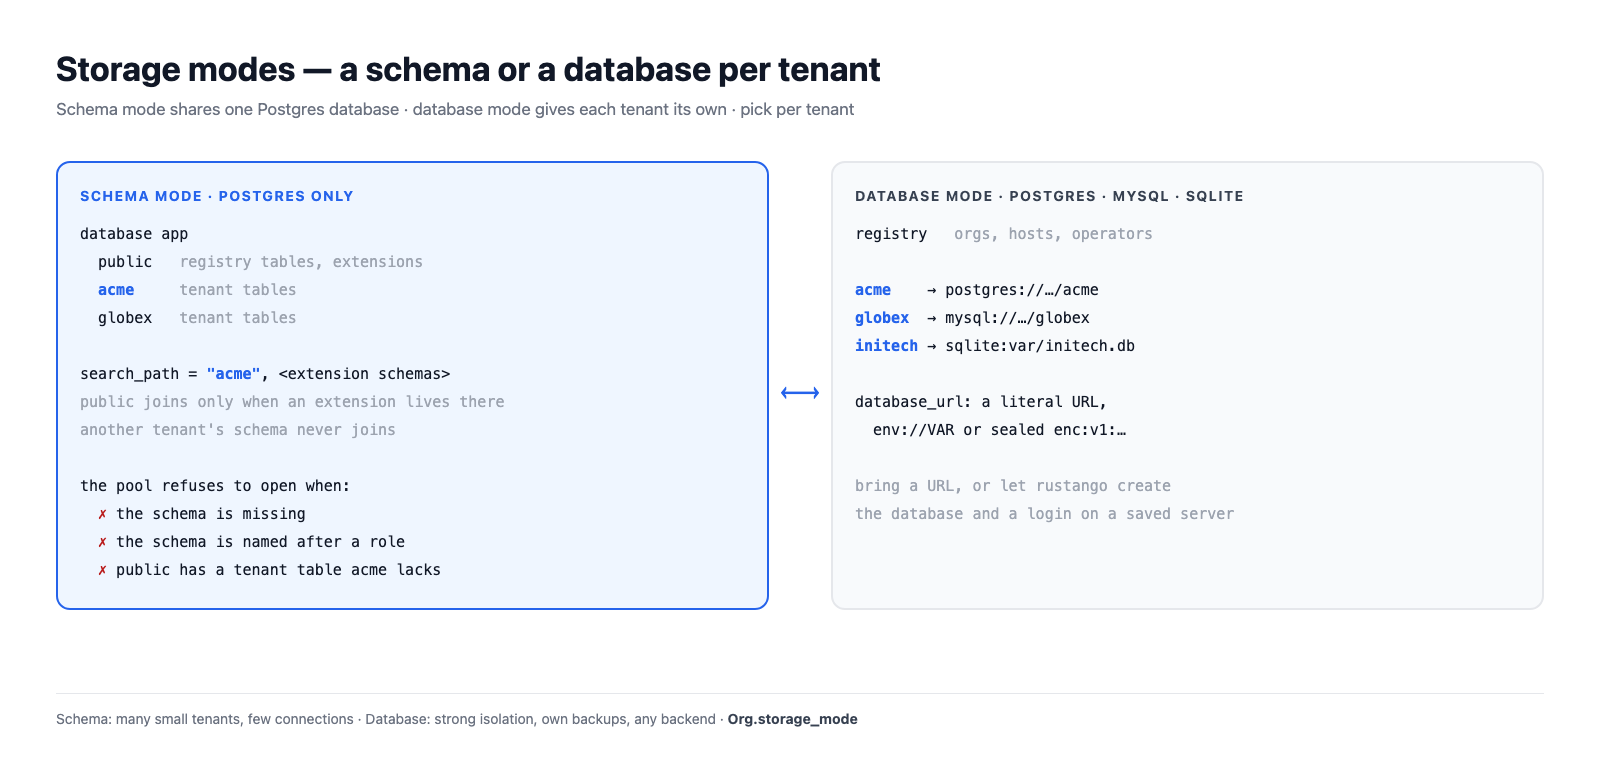
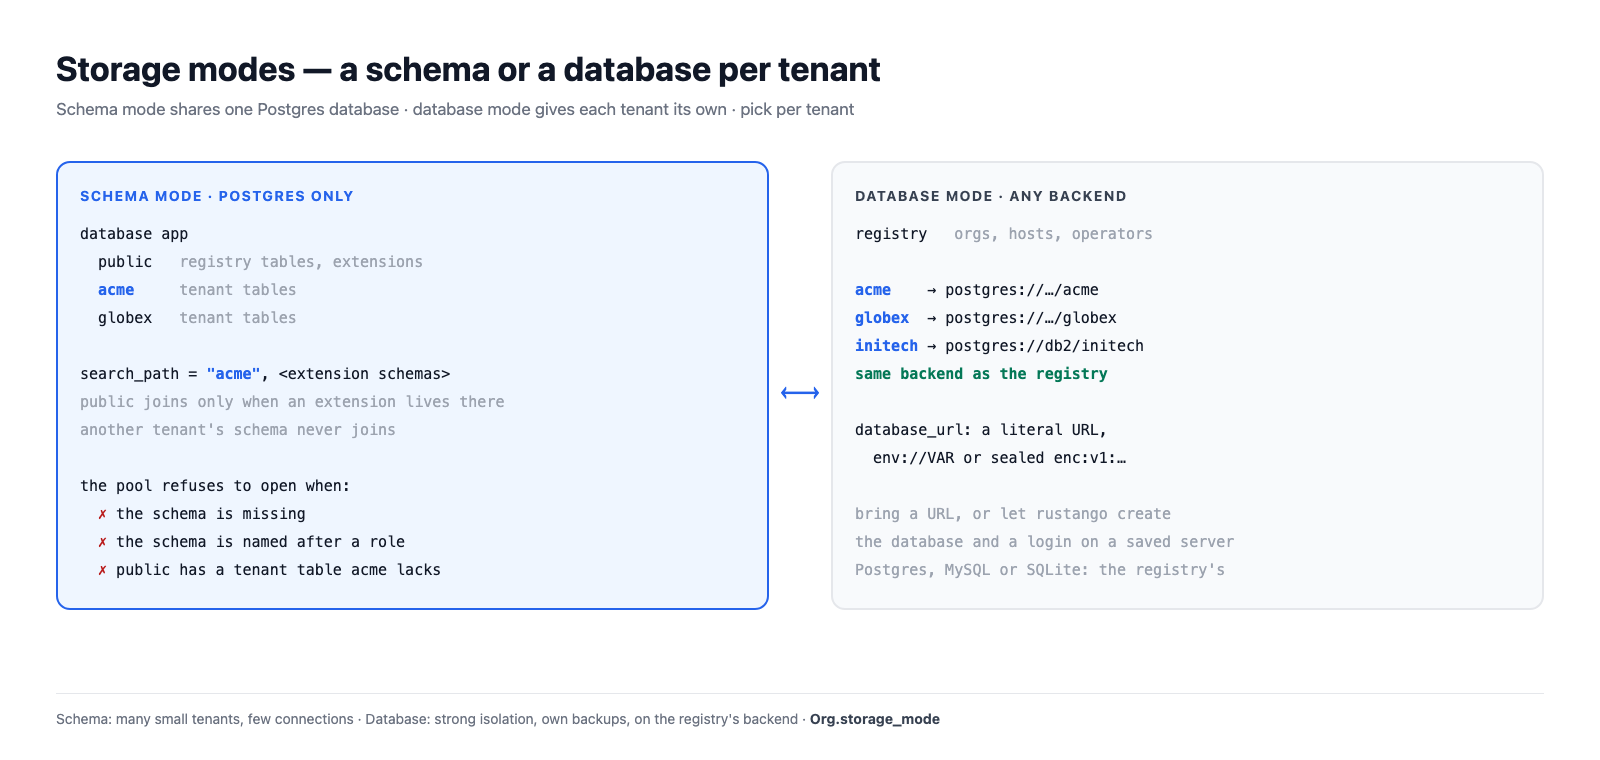
docs: tenancy guide review fixes
No port routing in the built-in server, same-backend tenants, two-poll
settle, database-mode tagging only, apex rules, extension warning.

Changed region(s): [[0.5312, 0.3934, 0.7812, 0.7566], [0.4062, 0.9382, 0.5938, 0.9684], [0.625, 0.2421, 0.7812, 0.2724]]

diff --git a/crates/rustango/src/tenancy/pools.rs b/crates/rustango/src/tenancy/pools.rs
@@ -1844,8 +1844,8 @@ impl UncheckedPath {
             target: "rustango::tenancy::pools",
             schema = %self.path.schemas[0],
             extensions = %self.skipped.join(", "),
-            "extensions in a tenant's schema, or one with objects of its own, stay off the \
-             tenant's search_path; \
+            "extensions in another tenant's schema, or in a schema with objects of its own, \
+             stay off this tenant's search_path; \
              move them with `ALTER EXTENSION <name> SET SCHEMA public`",
         );
         self

diff --git a/docs/fr/tenancy.md b/docs/fr/tenancy.md
@@ -80,8 +80,9 @@ Un **resolver** transforme une requête en `Org`. Le serveur essaie une chaîne
 de resolvers dans l'ordre, et le premier qui trouve gagne :
 
 1. **Hôte.** L'en-tête `Host` est égal au `host_pattern` du tenant, par
-   exemple `acme.app.com`. La comparaison est exacte. `create-tenant` met
-   `<slug>.<apex>` si vous n'en donnez pas.
+   exemple `acme.app.com`. La comparaison est exacte. Sans hôte donné,
+   `create-tenant` met `<slug>.<apex>`, mais seulement sans `--path-prefix`
+   et si l'apex est défini.
 2. **Hôtes supplémentaires.** Un nom d'hôte lié au tenant dans
    `rustango_org_hosts`. Il ne passe jamais devant l'hôte propre d'un autre
    tenant.
@@ -92,23 +93,28 @@ de resolvers dans l'ordre, et le premier qui trouve gagne :
    type `X-Org` après les autres. Associez-le à
    `HeaderResolver::allow_only` : c'est le client qui choisit la valeur.
 
-Seuls les tenants **actifs** sont trouvés. L'apex lui-même
-(`RUSTANGO_APEX_DOMAIN`) ne mène jamais à un tenant : il sert la console
-opérateur. Une requête sans tenant reçoit un 404 des routes de tenant, ou va
+Seuls les tenants **actifs** sont trouvés. L'apex seul
+(`RUSTANGO_APEX_DOMAIN`) ne mène à aucun tenant : il sert la console
+opérateur. L'apex plus un préfixe de chemin mène à un tenant, de même qu'une
+requête sur l'apex avec l'en-tête `X-Org` quand `HeaderResolver` est actif.
+Une requête sans tenant reçoit un 404 des routes de tenant, ou va
 à [`unresolved_tenant`](operator-console.md#hôtes-inconnus) si vous en avez
 défini un.
 
-**Port.** `Org.port` est comparé par `PortResolver`, qui lit le port du
-listener qui a accepté la requête, jamais l'URI du client. Il n'est pas dans
-la chaîne du serveur : ajoutez-le à une chaîne que vous construisez vous-même.
+**Port.** Le serveur intégré (`Builder::serve`, `run-server`) n'a pas de
+routage par port, ni de moyen d'ajouter `PortResolver` à sa chaîne. Un
+tenant joignable seulement par son port n'y est pas atteint. `PortResolver`
+(il lit le port du listener, jamais l'URI du client) ne marche que dans une
+chaîne que vous construisez et servez vous-même.
 
 Un tenant sans hôte, sans préfixe de chemin et sans port est **injoignable**,
 et il est refusé : par `create-tenant`, par la console et par une
 modification qui touche au routage.
 
 Les résultats sont mis en cache 30 secondes. Un autre serveur voit un
-changement de `rustango_orgs` en une lecture d'empreinte
-(`RUSTANGO_HOST_GEN_CHECK_SECS`, 5 secondes par défaut).
+changement de `rustango_orgs` en deux lectures d'empreinte
+(`RUSTANGO_HOST_GEN_CHECK_SECS`, 5 secondes par défaut), et jamais après le
+cache de 30 secondes.
 
 Dans un handler, prenez `TenantScope` (ne garde aucune connexion) ou
 `Tenant` (garde une connexion pour la requête) :
@@ -150,7 +156,7 @@ chemin sont pratiques en développement, quand vous n'avez qu'un hôte.
 
 Chaque tenant a un `storage_mode` : `schema` ou `database`.
 
-[![Mode schéma : une base Postgres avec un schéma par tenant, le search_path est le schéma du tenant plus les schémas qui ne contiennent que des extensions, et le pool refuse un schéma manquant, un schéma au nom d'un rôle ou un public qui contient une table de tenant absente du schéma. Mode base : chaque tenant a sa propre base Postgres, MySQL ou SQLite](../img/tenancy-storage-modes.png)](../img/tenancy-storage-modes.png)
+[![Mode schéma : une base Postgres avec un schéma par tenant, le search_path est le schéma du tenant plus les schémas qui ne contiennent que des extensions, et le pool refuse un schéma manquant, un schéma au nom d'un rôle ou un public qui contient une table de tenant absente du schéma. Mode base : chaque tenant a sa propre base sur le même backend que le registry](../img/tenancy-storage-modes.png)](../img/tenancy-storage-modes.png)
 
 ### Mode schéma (Postgres seulement)
 
@@ -176,8 +182,10 @@ Un pool de tenant **refuse de s'ouvrir** quand :
   tenant absente du schéma du tenant. Les requêtes liraient cette table à la
   place.
 
-Une extension placée dans le schéma du tenant, ou dans un schéma qui a ses
-propres objets, reste hors du chemin, avec un avertissement. Déplacez-la
+Une extension dans le schéma du tenant ne pose pas de problème : ce schéma
+est le premier du chemin. Une extension dans le schéma d'un autre tenant, ou
+dans un schéma qui a ses propres objets, reste hors du chemin, avec un
+avertissement. Déplacez-la
 avec `ALTER EXTENSION <name> SET SCHEMA public`.
 
 Sur MySQL et SQLite, le mode schéma est refusé avec un message qui renvoie
@@ -230,9 +238,9 @@ cargo run -- create-tenant initech --mode database --database-url "postgres://..
 - **Reconstruit en cas de changement.** Un pool retient l'URL ou le schéma
   dont il est issu. Quand l'`Org` en nomme un autre, la requête suivante
   construit un nouveau pool.
-- **Marqué.** Une connexion de tenant Postgres porte
+- **Marqué.** Une connexion Postgres en mode base porte
   `application_name=rustango-tenant:<org id>`, pour qu'une purge puisse
-  terminer ses sessions.
+  terminer ses sessions. Les pools en mode schéma ne sont pas marqués.
 
 Par défaut : 16 connexions par pool en mode base, 8 par pool en mode schéma,
 aucune connexion inactive gardée au chaud, délai d'inactivité 10 minutes,

diff --git a/docs/de/tenancy.md b/docs/de/tenancy.md
@@ -78,8 +78,9 @@ Ein **Resolver** macht aus einer Anfrage eine `Org`. Der Server probiert eine
 Kette von Resolvern der Reihe nach, und der erste Treffer gewinnt:
 
 1. **Host.** Der `Host`-Header ist gleich dem `host_pattern` des Tenants,
-   zum Beispiel `acme.app.com`. Der Vergleich ist exakt. `create-tenant`
-   setzt `<slug>.<apex>`, wenn du keinen angibst.
+   zum Beispiel `acme.app.com`. Der Vergleich ist exakt. Gibst du keinen Host an,
+   setzt `create-tenant` `<slug>.<apex>`, aber nur ohne `--path-prefix` und
+   wenn der Apex gesetzt ist.
 2. **Weitere Hosts.** Ein Hostname, der in `rustango_org_hosts` an den
    Tenant gebunden ist. Er schlägt nie den eigenen Host eines anderen
    Tenants.
@@ -90,24 +91,27 @@ Kette von Resolvern der Reihe nach, und der erste Treffer gewinnt:
    einen Header im Stil von `X-Org` hinzu. Kombiniere ihn mit
    `HeaderResolver::allow_only`: der Client wählt den Header-Wert.
 
-Nur **aktive** Tenants werden getroffen. Der Apex selbst
-(`RUSTANGO_APEX_DOMAIN`) führt nie zu einem Tenant: er zeigt die
-Operator-Konsole. Eine Anfrage ohne Tenant bekommt von den Tenant-Routen ein
+Nur **aktive** Tenants werden getroffen. Der Apex allein
+(`RUSTANGO_APEX_DOMAIN`) führt zu keinem Tenant: er zeigt die
+Operator-Konsole. Der Apex plus ein Pfad-Präfix führt zu einem, ebenso eine
+Apex-Anfrage mit dem Header `X-Org`, wenn `HeaderResolver` aktiv ist. Eine Anfrage ohne Tenant bekommt von den Tenant-Routen ein
 404, oder geht an [`unresolved_tenant`](operator-console.md#unbekannte-hosts),
 wenn du einen gesetzt hast.
 
-**Port.** `Org.port` wird von `PortResolver` verglichen. Er liest den Port
-des Listeners, der die Anfrage angenommen hat, nie die URI des Clients. Er
-steht nicht in der Kette des Servers: füge ihn einer Kette hinzu, die du
-selbst baust.
+**Port.** Der eingebaute Server (`Builder::serve`, `run-server`) hat kein
+Port-Routing und keinen Weg, `PortResolver` in seine Kette zu nehmen. Ein
+Tenant, der nur über seinen Port erreichbar ist, wird dort nicht erreicht.
+`PortResolver` (er liest den Port des Listeners, nie die URI des Clients)
+wirkt nur in einer Kette, die du selbst baust und betreibst.
 
 Ein Tenant ohne Host, ohne Pfad-Präfix und ohne Port ist **nicht
 erreichbar** und wird abgelehnt: von `create-tenant`, von der Konsole und von
 einer Änderung am Routing.
 
 Ergebnisse werden 30 Sekunden gecacht. Ein anderer Server sieht eine
-Änderung an `rustango_orgs` innerhalb einer Fingerprint-Abfrage
-(`RUSTANGO_HOST_GEN_CHECK_SECS`, Standard 5 Sekunden).
+Änderung an `rustango_orgs` innerhalb von zwei Fingerprint-Abfragen
+(`RUSTANGO_HOST_GEN_CHECK_SECS`, Standard 5 Sekunden), und nie später als
+der 30-Sekunden-Cache.
 
 Im Handler nimmst du `TenantScope` (hält keine Verbindung) oder `Tenant`
 (hält eine Verbindung für die Anfrage):
@@ -149,7 +153,7 @@ praktisch in der Entwicklung, wo du nur einen Host hast.
 
 Jeder Tenant hat einen `storage_mode`: `schema` oder `database`.
 
-[![Schema-Modus: eine Postgres-Datenbank mit einem Schema pro Tenant, der search_path ist das Tenant-Schema plus Schemas nur mit Erweiterungen, und der Pool lehnt ein fehlendes Schema, ein nach einer Rolle benanntes Schema oder ein public mit einer fehlenden Tenant-Tabelle ab. Datenbank-Modus: jeder Tenant hat seine eigene Postgres-, MySQL- oder SQLite-Datenbank](../img/tenancy-storage-modes.png)](../img/tenancy-storage-modes.png)
+[![Schema-Modus: eine Postgres-Datenbank mit einem Schema pro Tenant, der search_path ist das Tenant-Schema plus Schemas nur mit Erweiterungen, und der Pool lehnt ein fehlendes Schema, ein nach einer Rolle benanntes Schema oder ein public mit einer fehlenden Tenant-Tabelle ab. Datenbank-Modus: jeder Tenant hat seine eigene Datenbank auf demselben Backend wie die Registry](../img/tenancy-storage-modes.png)](../img/tenancy-storage-modes.png)
 
 ### Schema-Modus (nur Postgres)
 
@@ -175,8 +179,10 @@ Ein Tenant-Pool **öffnet nicht**, wenn:
   die dem Schema des Tenants fehlt. Abfragen würden sonst diese Tabelle
   lesen.
 
-Eine Erweiterung im eigenen Schema des Tenants, oder in einem Schema mit
-eigenen Objekten, bleibt mit einer Warnung außerhalb des Pfads. Verschiebe
+Eine Erweiterung im eigenen Schema des Tenants ist kein Problem: dieses
+Schema steht zuerst im Pfad. Eine Erweiterung im Schema eines anderen
+Tenants, oder in einem Schema mit eigenen Objekten, bleibt mit einer Warnung
+außerhalb des Pfads. Verschiebe
 sie mit `ALTER EXTENSION <name> SET SCHEMA public`.
 
 Auf MySQL und SQLite wird der Schema-Modus mit einem Hinweis auf den
@@ -229,9 +235,9 @@ cargo run -- create-tenant initech --mode database --database-url "postgres://..
 - **Bei Änderung neu gebaut.** Ein Pool merkt sich die URL oder das Schema,
   aus dem er gebaut wurde. Nennt die `Org` etwas anderes, baut die nächste
   Anfrage einen neuen Pool.
-- **Markiert.** Eine Postgres-Tenant-Verbindung trägt
+- **Markiert.** Eine Postgres-Verbindung im Datenbank-Modus trägt
   `application_name=rustango-tenant:<org id>`, damit ein Purge ihre
-  Sitzungen beenden kann.
+  Sitzungen beenden kann. Pools im Schema-Modus sind nicht markiert.
 
 Standards: 16 Verbindungen pro Pool im Datenbank-Modus, 8 pro Pool im
 Schema-Modus, keine warm gehaltenen Verbindungen, Leerlauf-Timeout

diff --git a/docs/es/tenancy.md b/docs/es/tenancy.md
@@ -78,8 +78,9 @@ Un **resolver** convierte una petición en una `Org`. El servidor prueba una
 cadena de resolvers en orden, y gana el primero que coincide:
 
 1. **Host.** La cabecera `Host` es igual al `host_pattern` del tenant, por
-   ejemplo `acme.app.com`. La comparación es exacta. `create-tenant` pone
-   `<slug>.<apex>` si no das uno.
+   ejemplo `acme.app.com`. La comparación es exacta. Si no das un host,
+   `create-tenant` pone `<slug>.<apex>`, pero solo sin `--path-prefix` y con
+   el apex configurado.
 2. **Hosts extra.** Un hostname atado al tenant en `rustango_org_hosts`.
    Nunca gana al host propio de otro tenant.
 3. **Prefijo de ruta, solo en el apex.** `app.com/acme/...` coincide con el
@@ -89,23 +90,28 @@ cadena de resolvers en orden, y gana el primero que coincide:
    estilo `X-Org` después de las demás. Úsala con
    `HeaderResolver::allow_only`: el cliente elige el valor de la cabecera.
 
-Solo coinciden los tenants **activos**. El apex (`RUSTANGO_APEX_DOMAIN`)
-nunca resuelve a un tenant: sirve la consola de operador. Una petición sin
+Solo coinciden los tenants **activos**. El apex solo (`RUSTANGO_APEX_DOMAIN`)
+no resuelve a ningún tenant: sirve la consola de operador. El apex más un
+prefijo de ruta sí resuelve, y también una petición al apex con la cabecera
+`X-Org` cuando `HeaderResolver` está activo. Una petición sin
 tenant recibe un 404 de las rutas de tenant, o va a
 [`unresolved_tenant`](operator-console.md#hosts-desconocidos) si lo
 configuras.
 
-**Puerto.** `Org.port` lo compara `PortResolver`, que lee el puerto del
-listener que aceptó la petición, nunca la URI del cliente. No está en la
-cadena del servidor: añádelo a una cadena que construyas tú.
+**Puerto.** El servidor incluido (`Builder::serve`, `run-server`) no
+enruta por puerto, y no hay forma de añadir `PortResolver` a su cadena. Un
+tenant que solo se alcanza por su puerto no se alcanza ahí. `PortResolver`
+(lee el puerto del listener, nunca la URI del cliente) solo funciona en una
+cadena que construyes y sirves tú.
 
 Un tenant sin host, sin prefijo de ruta y sin puerto es **inalcanzable**, y
 se rechaza: en `create-tenant`, en la consola y en una edición que cambie el
 enrutado.
 
 Los resultados se cachean 30 segundos. Otro servidor ve un cambio en
-`rustango_orgs` dentro de una consulta de huella
-(`RUSTANGO_HOST_GEN_CHECK_SECS`, 5 segundos por defecto).
+`rustango_orgs` dentro de dos consultas de huella
+(`RUSTANGO_HOST_GEN_CHECK_SECS`, 5 segundos por defecto), y nunca después
+de la caché de 30 segundos.
 
 En un handler, usa `TenantScope` (no retiene conexión) o `Tenant` (retiene
 una conexión durante la petición):
@@ -147,7 +153,7 @@ ruta son útiles en desarrollo, donde tienes un solo host.
 
 Cada tenant tiene un `storage_mode`: `schema` o `database`.
 
-[![Modo schema: una base de datos Postgres con un schema por tenant, el search_path es el schema del tenant más schemas que solo tienen extensiones, y el pool rechaza un schema que falta, un schema con nombre de rol o un public con una tabla de tenant que falta en el schema. Modo database: cada tenant tiene su propia base de datos Postgres, MySQL o SQLite](../img/tenancy-storage-modes.png)](../img/tenancy-storage-modes.png)
+[![Modo schema: una base de datos Postgres con un schema por tenant, el search_path es el schema del tenant más schemas que solo tienen extensiones, y el pool rechaza un schema que falta, un schema con nombre de rol o un public con una tabla de tenant que falta en el schema. Modo database: cada tenant tiene su propia base de datos en el mismo backend que el registry](../img/tenancy-storage-modes.png)](../img/tenancy-storage-modes.png)
 
 ### Modo schema (solo Postgres)
 
@@ -172,8 +178,9 @@ Un pool de tenant **no se abre** cuando:
 - un schema de extensiones en la ruta, como `public`, tiene una tabla de
   tenant que falta en el schema del tenant. Las consultas leerían esa tabla.
 
-Una extensión en el propio schema del tenant, o en un schema con objetos
-propios, queda fuera de la ruta, con un aviso. Muévela con
+Una extensión en el propio schema del tenant no es problema: ese schema va
+primero en la ruta. Una extensión en el schema de otro tenant, o en un
+schema con objetos propios, queda fuera de la ruta, con un aviso. Muévela con
 `ALTER EXTENSION <name> SET SCHEMA public`.
 
 En MySQL y SQLite el modo schema se rechaza con un mensaje que apunta al
@@ -226,9 +233,9 @@ cargo run -- create-tenant initech --mode database --database-url "postgres://..
 - **Se reconstruye al cambiar.** Un pool recuerda la URL o el schema con que
   se creó. Cuando la `Org` nombra otro, la siguiente petición crea un pool
   nuevo.
-- **Etiquetado.** Una conexión de tenant en Postgres lleva
+- **Etiquetado.** Una conexión Postgres en modo database lleva
   `application_name=rustango-tenant:<org id>`, para que una purga pueda
-  terminar sus sesiones.
+  terminar sus sesiones. Los pools de modo schema no se etiquetan.
 
 Por defecto: 16 conexiones por pool de modo database, 8 por pool de modo
 schema, ninguna conexión inactiva mantenida, timeout de inactividad

diff --git a/docs/tenancy.md b/docs/tenancy.md
@@ -77,8 +77,9 @@ A **resolver** turns a request into an `Org`. The server tries a chain of
 resolvers in order, and the first match wins:
 
 1. **Host.** The `Host` header equals the tenant's `host_pattern`, for
-   example `acme.app.com`. The match is exact. `create-tenant` sets it to
-   `<slug>.<apex>` unless you give one.
+   example `acme.app.com`. The match is exact. When you give no host,
+   `create-tenant` sets `<slug>.<apex>`, but only when there is no
+   `--path-prefix` and the apex is set.
 2. **Extra hosts.** A hostname bound to the tenant in
    `rustango_org_hosts`. It never beats another tenant's own host.
 3. **Path prefix, on the apex only.** `app.com/acme/...` matches the tenant
@@ -88,22 +89,26 @@ resolvers in order, and the first match wins:
    header after the others. Pair it with `HeaderResolver::allow_only`: the
    client chooses the header value.
 
-Only **active** tenants match. The apex itself (`RUSTANGO_APEX_DOMAIN`)
-never resolves to a tenant: it serves the operator console. A request that
+Only **active** tenants match. The bare apex (`RUSTANGO_APEX_DOMAIN`)
+resolves to no tenant: it serves the operator console. The apex plus a path
+prefix does resolve, and so does an apex request with the `X-Org` header when
+`HeaderResolver` is on. A request that
 matches no tenant gets a 404 from the tenant routes, or goes to
 [`unresolved_tenant`](operator-console.md#unknown-hosts) if you set one.
 
-**Port.** `Org.port` is matched by `PortResolver`, which reads the port of
-the listener that took the request, never the client's URI. It is not in the
-server's chain: add it to a chain you build yourself.
+**Port.** The built-in server (`Builder::serve`, `run-server`) has no port
+routing, and no way to add `PortResolver` to its chain. A tenant reachable
+only by its port is not reached there. `PortResolver` (it reads the
+listener's port, never the client's URI) works only in a chain you build and
+serve yourself.
 
 A tenant with no host, no path prefix and no port is **unroutable**, and it
 is refused: by `create-tenant`, by the console, and by an edit that changes
 routing.
 
 Resolutions are cached for 30 seconds. Another server sees a change to
-`rustango_orgs` within one fingerprint poll (`RUSTANGO_HOST_GEN_CHECK_SECS`,
-default 5 seconds).
+`rustango_orgs` within two fingerprint polls (`RUSTANGO_HOST_GEN_CHECK_SECS`,
+default 5 seconds), and never later than the 30-second cache.
 
 In a handler, take `TenantScope` (holds no connection) or `Tenant` (holds
 one connection for the request):
@@ -144,7 +149,7 @@ in development, where you have one host.
 
 Each tenant has a `storage_mode`: `schema` or `database`.
 
-[![Schema mode: one Postgres database with a schema per tenant, search_path is the tenant schema plus extension-only schemas, and the pool refuses a missing schema, a role-named schema, or public holding a tenant table the schema lacks. Database mode: each tenant has its own Postgres, MySQL or SQLite database](img/tenancy-storage-modes.png)](img/tenancy-storage-modes.png)
+[![Schema mode: one Postgres database with a schema per tenant, search_path is the tenant schema plus extension-only schemas, and the pool refuses a missing schema, a role-named schema, or public holding a tenant table the schema lacks. Database mode: each tenant has its own database on the same backend as the registry](img/tenancy-storage-modes.png)](img/tenancy-storage-modes.png)
 
 ### Schema mode (Postgres only)
 
@@ -168,8 +173,9 @@ A tenant pool **refuses to open** when:
 - an extension schema on the path, such as `public`, holds a tenant table
   the tenant's schema lacks. Queries would read that table instead.
 
-An extension that lives in the tenant's own schema, or in a schema with its
-own objects, stays off the path, with a warning. Move it with
+An extension in the tenant's own schema is fine: that schema is first on
+the path. An extension in another tenant's schema, or in a schema with
+objects of its own, stays off the path, with a warning. Move it with
 `ALTER EXTENSION <name> SET SCHEMA public`.
 
 On MySQL and SQLite, schema mode is refused with a message that points to
@@ -219,9 +225,9 @@ cargo run -- create-tenant initech --mode database --database-url "postgres://..
   the queries.
 - **Rebuilt on change.** A pool remembers the URL or schema it was built
   from. When the `Org` names another one, the next request builds a new pool.
-- **Tagged.** A Postgres tenant connection carries
+- **Tagged.** A database-mode Postgres connection carries
   `application_name=rustango-tenant:<org id>`, so a purge can end its
-  sessions.
+  sessions. Schema-mode pools are not tagged.
 
 Defaults: 16 connections per database-mode pool, 8 per schema-mode pool,
 no idle connections kept warm, idle timeout 10 minutes, max lifetime
